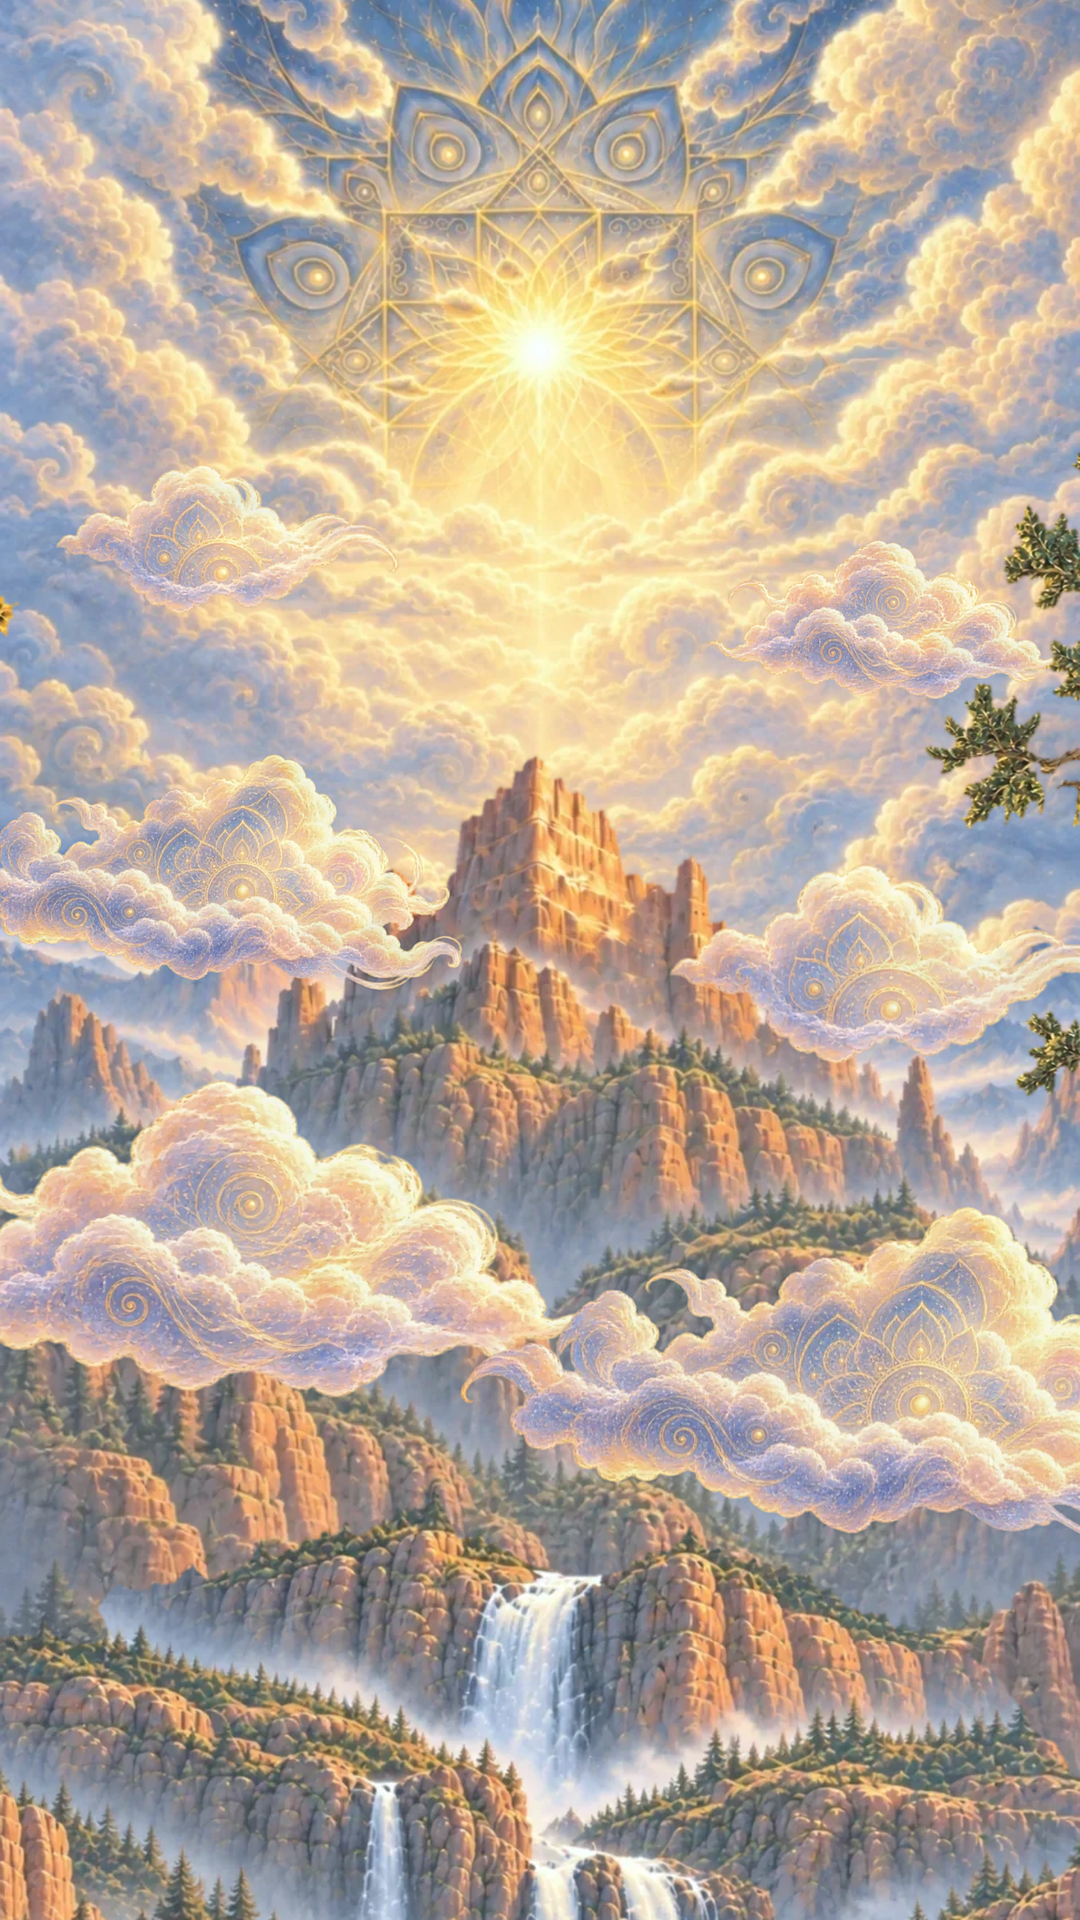
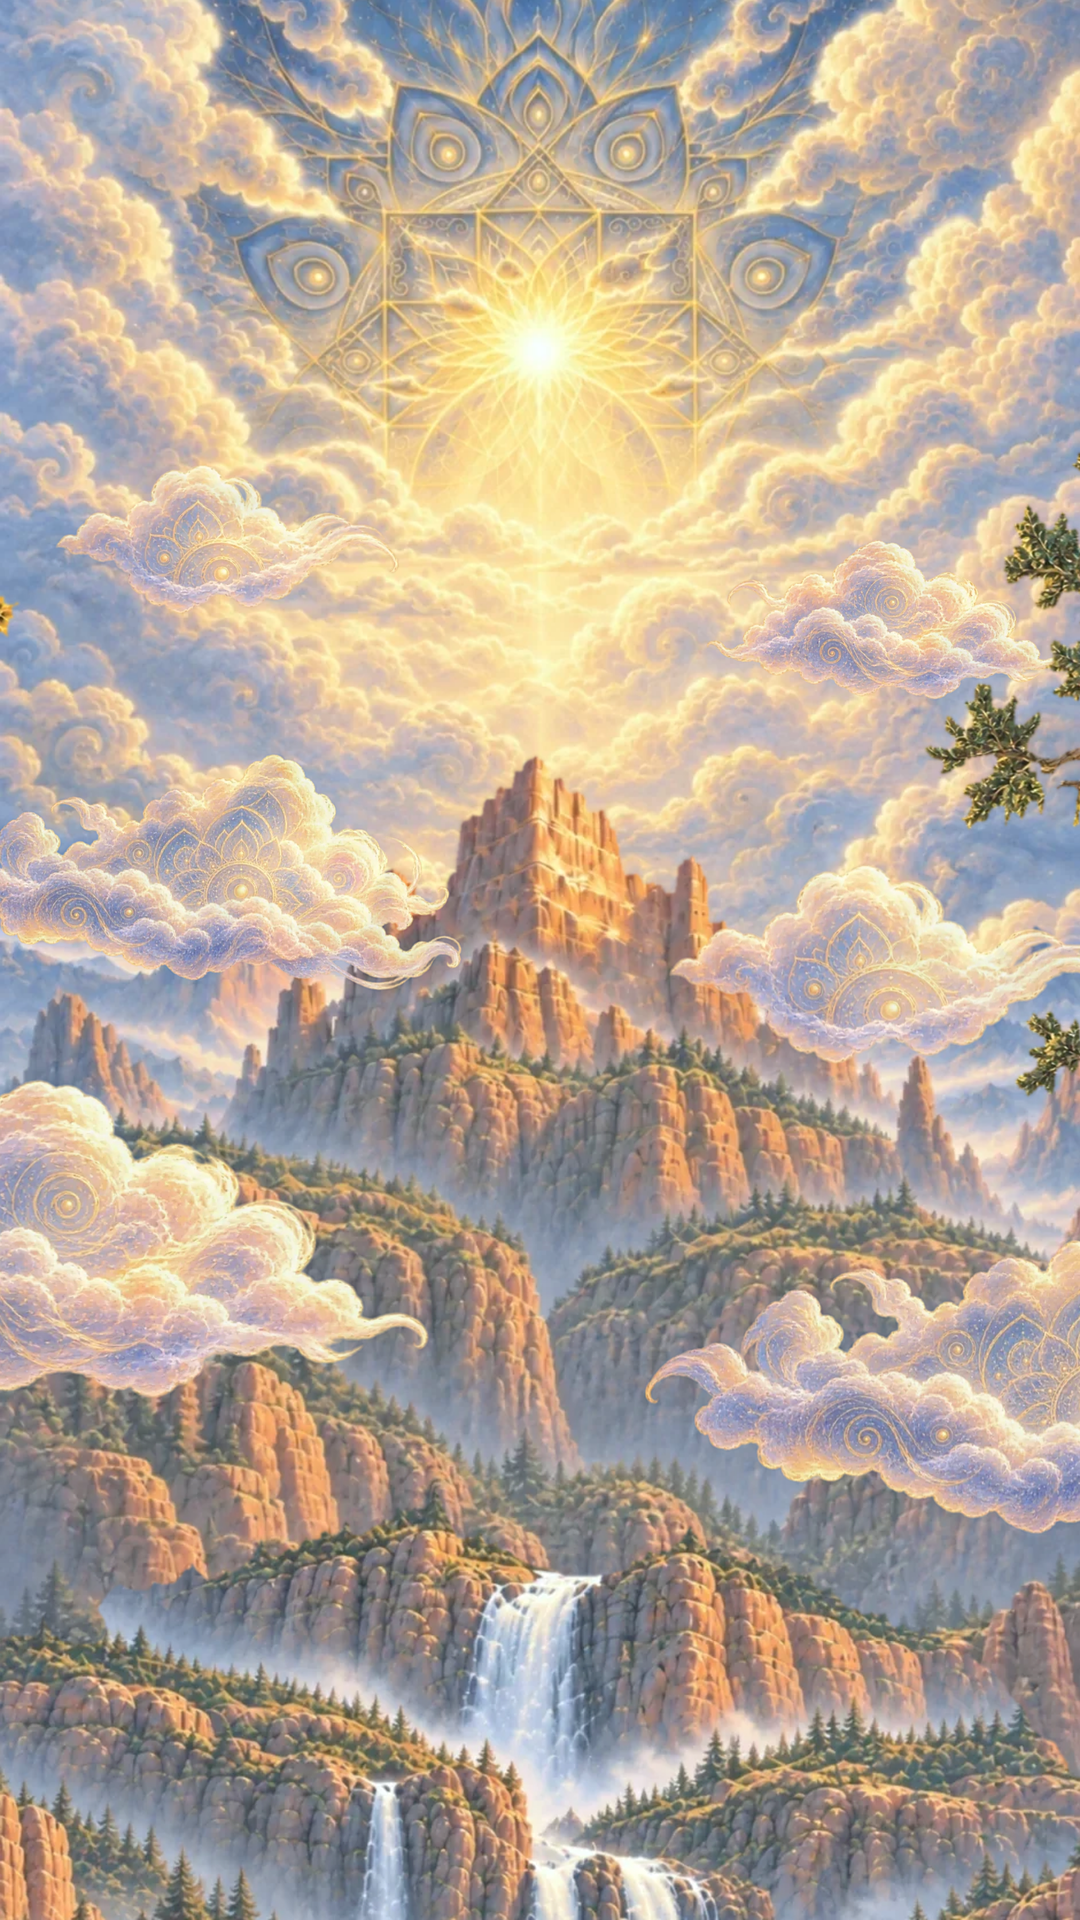
World v3 landing: nearest clouds pushed to the sides so the falls show; end frame updated
Claude-Session: https://claude.ai/code/session_01X5u2D9a4RRbbCvwnE6RQKF

Changed region(s): [[0.0, 0.5625, 1.0, 0.8125]]

diff --git a/prototype/world-v3-preview/trev-world-scroll.html b/prototype/world-v3-preview/trev-world-scroll.html
@@ -61,8 +61,8 @@ const CLOUDS = [
   { src: "burnell-world-cloud-medium.webp", after: "mountains",  depth: 0.35, w: 320, x0: 770, y0: 540,  dir: 1,  op: 0.85 },
   { src: "burnell-world-cloud-large.webp",  after: "falls",      depth: 0.65, w: 470, x0: 170, y0: 760,  dir: -1, op: 0.9 },
   { src: "burnell-world-cloud-small.webp",  after: "falls",      depth: 0.65, w: 400, x0: 790, y0: 840,  dir: 1,  op: 0.9 },
-  { src: "burnell-world-cloud-medium.webp", after: "foreground", depth: 1,    w: 640, x0: 220, y0: 1080, dir: -1, op: 0.95 },
-  { src: "burnell-world-cloud-large.webp",  after: "foreground", depth: 1,    w: 680, x0: 740, y0: 1200, dir: 1,  op: 0.95 },
+  { src: "burnell-world-cloud-medium.webp", after: "foreground", depth: 1,    w: 640, x0: 60,  y0: 1080, dir: -1, op: 0.95 },
+  { src: "burnell-world-cloud-large.webp",  after: "foreground", depth: 1,    w: 680, x0: 900, y0: 1200, dir: 1,  op: 0.95 },
 ];
 const world = document.getElementById("world");
 const sunsetEl = document.createElement("canvas"); sunsetEl.id = "sunset"; sunsetEl.width = 941; sunsetEl.height = 1672;
